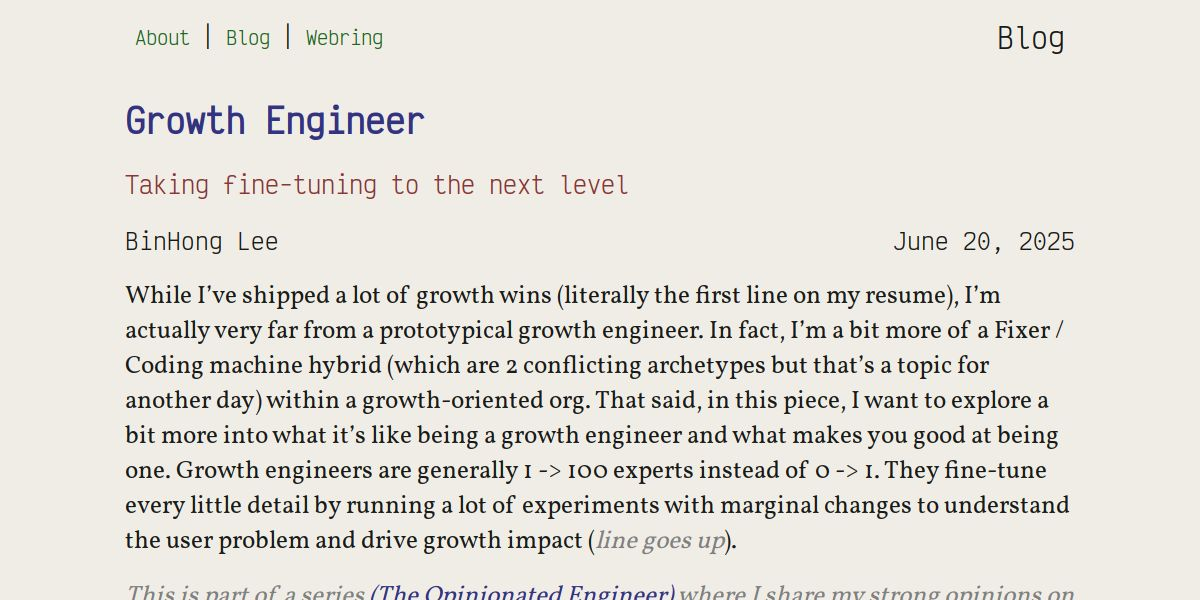
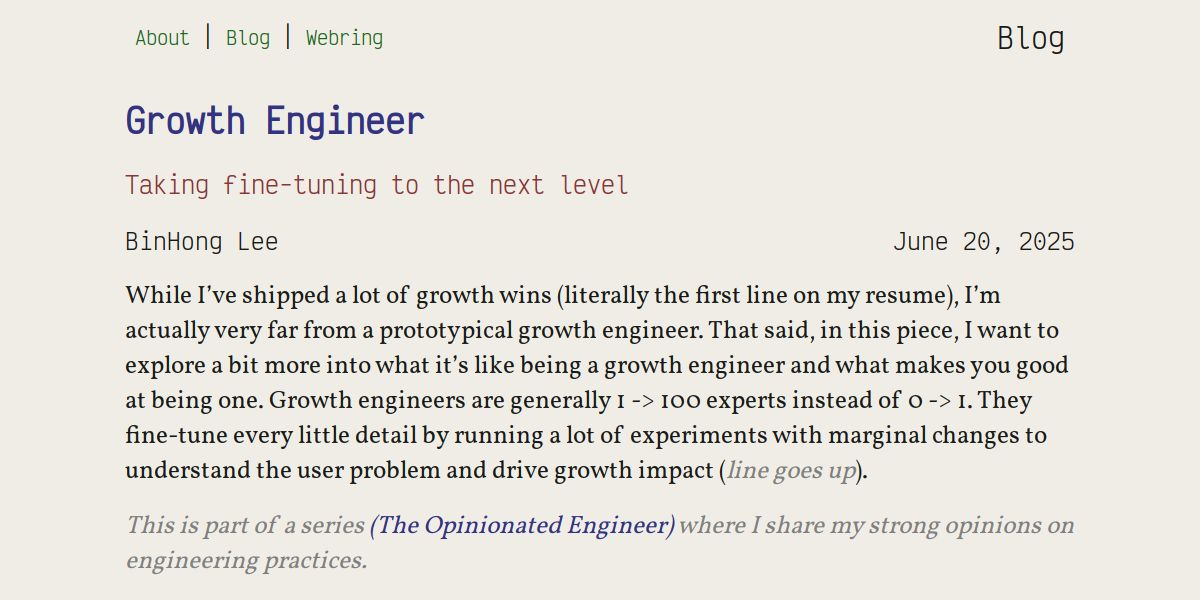
deploy: c6669525b307d3e00186415c4e27ac9a61eeb453

Changed region(s): [[0.0925, 0.51, 0.8942, 1.0]]

diff --git a/2025-07-03-internal-tooling-ideas/index.html b/2025-07-03-internal-tooling-ideas/index.html
@@ -1,0 +1,191 @@
+<!DOCTYPE html>
+<html lang="en">
+  <head>
+    <meta charset="utf-8">
+    <meta name="viewport" content="initial-scale=0.75">
+    
+    <title>Internal Tooling Ideas - BinHong Lee&#39;s Blog</title>
+    
+    <meta name="description" content="For years, I built and maintained the only logged-out accessible dev tool set / platform at Meta. That earned me some reputation (in a certain circle) of being &ldquo;the idea guy on internal tools&rdquo;. Whenever I&rsquo;m asked about how I keep coming up with good ideas for valuable tools to build, my go-to answer has been &ldquo;I build tools when I get annoyed while doing my job&rdquo;. I&rsquo;ll try to expand that into more details below.">
+    <meta property="og:type" content="article">
+    <meta property="og:title" content="Internal Tooling Ideas">
+    <meta property="og:description" content="When and what to build for internal tools?">
+    <meta name="twitter:description" content="When and what to build for internal tools?">
+    <meta name="twitter:title" content="Internal Tooling Ideas"><meta property="article:published_time" 2025-07-03T00:00:00-08:00 />
+    <meta property="article:modified_time" 2025-07-03T00:00:00-08:00 />
+    <meta property="og:image" content="https://binhong.me/blog/preview/internal_tooling_ideas.jpg">
+    <meta property="og:image:height" content="600">
+    <meta property="og:image:width" content="1200">
+    <meta name="twitter:image" content="https://binhong.me/blog/preview/internal_tooling_ideas.jpg">
+    <meta name="twitter:card" content="summary_large_image">
+    <meta name="robots" content="max-image-preview:large">
+    <meta name="image" content="https://binhong.me/blog/preview/internal_tooling_ideas.jpg" />
+    <meta name="twitter:site" content="@">
+    <meta name="author" content="BinHong Lee">
+    <meta property="og:profile:first_name" content="BinHong">
+    <meta property="og:profile:last_name" content="Lee">
+    <meta property="og:username" content="binhong">
+    <meta property="og:locale" content="en_US">
+    <meta property="og:site_name" content="BinHong Lee&#39;s Blog">
+    <meta name="twitter:site" content="@binhonglee">
+    <meta name="fediverse:creator" content="@bh@social.lol">
+    <link href="https://social.lol/@bh" rel="me">
+    
+    <link href="https://binhong.me/blog/style.css?v=1748746674" rel="stylesheet">
+    <link href="https://binhong.me/blog/dark-syntax.css?v=1748746674" rel="stylesheet">
+    <link href="https://binhong.me/blog/light-syntax.css?v=1748746674" rel="stylesheet">
+    <link href="https://binhong.me/fonts/fonts.css?v=1747738744" rel="stylesheet">
+    <link href="https://binhong.me/threads/threads.css" rel="stylesheet">
+    
+    
+    <link rel="icon" href="https://binhong.me/blog/img/profile.png" />
+    
+    <meta name="generator" content="Hugo 0.147.7">
+    
+    </head>
+  <body class="single">
+    <details class="dark_mode_toggle" role="button" open>
+      <summary>
+        <div class="content">
+          <div class="secondary_block">
+            <p class="name-title">Blog</p>
+          </div>
+        </div>
+      </summary>
+    </details>
+    <div class="wrapper">
+      <div class="content dropdown">
+        <button class="dropdown_toggle" aria-haspopup="true" aria-controls="dropdown_menu">+</button>
+        <div class="header_links" id="dropdown_menu" aria-labelledby="dropdown_toggle" role="menu">
+          <a class="link" href="https://binhong.me/" role="menuitem">About</a>
+          <p>|</p>
+          <a class="link" href="https://binhong.me/blog/" role="menuitem">Blog</a>
+          <p>|</p>
+          <div class="webring link" role="menuitem">
+            <a class="webring_toggle">Webring</a>
+            <div class="webring_links">
+              <a class="link" href="https://ringdt.rapid.workers.dev/prev?from=https://binhong.me">Prev</a>
+              <hr />
+              <a class="link" href="https://ringdt.rapid.workers.dev/next?from=https://binhong.me">Next</a>    
+            </div>
+          </div>
+        </div>
+      </div>
+
+
+    <article class="content_body primary_block projects">
+      <main class="article_body">
+        <div class="active">
+          <h1 class="row title">Internal Tooling Ideas</h1>
+          <p class="row subtitle">When and what to build for internal tools?</p>
+          <div class="row author">
+            <p>BinHong Lee</p>
+            <p class="right">July 3, 2025</p>
+          </div>
+          <div class="post_content"><p>For years, I built and maintained the only logged-out accessible dev tool set / platform at Meta. That earned me some reputation (in a certain circle) of being &ldquo;the idea guy on internal tools&rdquo;. Whenever I&rsquo;m asked about how I keep coming up with good ideas for valuable tools to build, my go-to answer has been &ldquo;I build tools when I get annoyed while doing my job&rdquo;. I&rsquo;ll try to expand that into more details below.</p>
+<p><em>This is part of a series <a href="https://claude.ai/blog/2025-05-04-the-opinionated-engineer/">(The Opinionated Engineer)</a> where I share my strong opinions on engineering practices.</em></p>
+<a class="anchor" href="#repetitive-typing">
+    <h2 id="repetitive-typing">
+        <span class="text">Repetitive Typing</span>
+        <span class="tag">#</span>
+    </h2>
+</a>
+<p>The biggest value of having logged-out accessible dev tools is that you no longer have to log in to access dev tools. Login, while generally not too big of a friction for one-off situations, can be very bothersome if you have to type your credentials over and over again (for dev purposes) as you login (update config) → logout (test) → login (update config) → logout (test). If bypassing or removing the typing aspect is not possible, consider if it can be replaced with multiple choice button selection or just a single copy-paste friendly input.</p>
+<a class="anchor" href="#unnecessary-waiting--processing">
+    <h2 id="unnecessary-waiting--processing">
+        <span class="text">Unnecessary Waiting / Processing</span>
+        <span class="tag">#</span>
+    </h2>
+</a>
+<p>There are generally 2 types of waiting problems. The first one is where the wait takes a really long time and can be done asynchronously. Either move the wait into an async manner and integrate a messaging system to notify the author when it&rsquo;s completed, or pre-process them based on known patterns. For example, companies with large native app (iOS / Android) code bases have long build times. You can integrate build tools like <a href="https://bazel.build/remote/caching">Bazel with remote caching</a> so clients don&rsquo;t have to rebuild everything from scratch. Since an engineer will likely want to pull from remote <code>HEAD</code> (or <code>stable</code>) daily, you can have a cron job that pulls and builds daily in the morning before the engineer starts working, thus turning their wait block time into an <em>invisible</em> operation done automagically while they are having their breakfast or morning coffee.</p>
+<a class="anchor" href="#device-config--manual-hard-code">
+    <h2 id="device-config--manual-hard-code">
+        <span class="text">Device Config &gt; Manual Hard-code</span>
+        <span class="tag">#</span>
+    </h2>
+</a>
+<p>In many of these cases, you can probably do manual hard-coding to get the intended behavior. However, doing so increases the risk of accidentally committing such hard-coded changes into prod (if not caught during code review). On top of that, when working on a complex code base, the engineer might not be familiar with the code pointer for where the hard-code needs to go. For instance, if you want to bypass the rate-limit of your feature but the rate-limit logic is owned by a separate team in an unfamiliar code base. As an added bonus, this also allows non-technical members of your team (designers, PMs etc.) to do product audits, dogfooding, and in-depth testing independently without needing dedicated engineering support.</p>
+<a class="anchor" href="#non-deterministic-behaviors-ml-override">
+    <h2 id="non-deterministic-behaviors-ml-override">
+        <span class="text">Non-deterministic Behaviors (ML override)</span>
+        <span class="tag">#</span>
+    </h2>
+</a>
+<p>This is somewhat similar to the manual hardcode situation mentioned above where you might want to override an ML decision to manually test out different decision combinations by the model. ML models (and AI) are relatively non-deterministic by design, but when building / testing a product, you want to make sure that you covered all the different possible scenarios. Having an override to switch between different potential responses allows for better coverage on both manual and automated testing, ensuring that your change behaves as intended.</p>
+<a class="anchor" href="#chore">
+    <h2 id="chore">
+        <span class="text">Chore</span>
+        <span class="tag">#</span>
+    </h2>
+</a>
+<p>This is more about employee satisfaction where working on a chore can be boring or frustrating to them. Having tools to automate such work allows them to explore more interesting / challenging work, thus improving employee satisfaction, even if it doesn&rsquo;t necessarily save a significant amount of time. The best &ldquo;realistic&rdquo; way to measure this would be a rating system where you count the number of employees using it and ask for their feedback (both positive and negative), then compile to show the value it provides.</p>
+<a class="anchor" href="#wrap-up">
+    <h2 id="wrap-up">
+        <span class="text">Wrap up</span>
+        <span class="tag">#</span>
+    </h2>
+</a>
+<p>Building internal tools is about removing friction from your team&rsquo;s daily workflow. The best tools emerge from genuine pain points you experience while doing your job. Start small and focus on the annoyances that happen most frequently. The key is to stay observant of your own frustrations and act on them. Every great internal tool started with someone saying &ldquo;there has to be a better way to do this&rdquo;.</p>
+</div>
+          
+        </div>        <div class="newsletter">
+          <h2>Subscribe to the newsletter today!</h2>
+          <form action="https://binhong.me/newsletter/subscribe" method="post">
+              <input type="email" name="email" placeholder="email@domain.com"/>
+              <input type="hidden" name="secret" id="secret" value="123potato123"/>
+              <noscript>
+                <br />
+                <label>You will need to manually get this secret from <a href="https://binhong.me/newsletter/secret">here</a></label>
+                <input name="secret" id="secret" placeholder="secret"/>
+                <br />
+              </noscript>
+              <button type="submit" name="submit" class="subscribe">Subscribe</button>
+          </form>
+        </div>
+        <div class="bottom_buttons">
+          
+          
+          
+          <a href="/blog">
+            <div class="bottom_button">
+              ← Back to menu
+            </div>
+          </a>
+          
+          
+          
+        </div>
+      </main>
+    </article>
+      <footer class="content">
+        <div class="footer primary_block">
+          <div class="row">
+            <p>Fonts:</p>
+            <a href="http://vollkorn-typeface.com/" rel="noopener noreferrer nofollow" target="_blank" class="name">Vollkorn</a>,
+            <a href="https://rubjo.github.io/victor-mono/" rel="noopener noreferrer nofollow" target="_blank" class="name">Victor Mono</a>
+          </div>
+          <div class="row">
+            <p>
+              <a href="https://github.com/binhonglee/blog/blob/main/content/2025-07-03-internal-tooling-ideas.md?plain=1" rel="noopener noreferrer nofollow" target="_blank">Source</a>
+              |
+              <a rel="alternate" type="application/rss+xml" href="https://binhong.me/blog/index.xml" title="BinHong Lee&#39;s Blog">RSS</a>
+            </p>
+          </div>
+          <div class="row">
+            <p>
+              &copy; 2025 <a href="https://binhong.me">BinHong Lee</a>
+            </p>
+          </div>
+          <div class="row">
+            <p>
+              Powered by <a href="https://gohugo.io/" rel="noopener noreferrer nofollow" target="_blank">Hugo</a>
+            </p>
+          </div>
+        </div>
+      </footer>
+    </div>
+    <script type="text/javascript" src="https://binhong.me/darkMode.js"></script>
+    <script type="text/javascript" src="https://binhong.me/blog/secret.js"></script>
+  </body>
+</html>
+

diff --git a/2025-06-20-growth-engineer/index.html b/2025-06-20-growth-engineer/index.html
@@ -6,7 +6,7 @@
     
     <title>Growth Engineer - BinHong Lee&#39;s Blog</title>
     
-    <meta name="description" content="While I&rsquo;ve shipped a lot of growth wins (literally the first line on my resume), I&rsquo;m actually very far from a prototypical growth engineer. In fact, I&rsquo;m a bit more of a Fixer / Coding machine hybrid (which are 2 conflicting archetypes but that&rsquo;s a topic for another day) within a growth-oriented org. That said, in this piece, I want to explore a bit more into what it&rsquo;s like being a growth engineer and what makes you good at being one. Growth engineers are generally 1 -&gt; 100 experts instead of 0 -&gt; 1. They fine-tune every little detail by running a lot of experiments with marginal changes to understand the user problem and drive growth impact (line goes up).">
+    <meta name="description" content="While I&rsquo;ve shipped a lot of growth wins (literally the first line on my resume), I&rsquo;m actually very far from a prototypical growth engineer. That said, in this piece, I want to explore a bit more into what it&rsquo;s like being a growth engineer and what makes you good at being one. Growth engineers are generally 1 -&gt; 100 experts instead of 0 -&gt; 1. They fine-tune every little detail by running a lot of experiments with marginal changes to understand the user problem and drive growth impact (line goes up).">
     <meta property="og:type" content="article">
     <meta property="og:title" content="Growth Engineer">
     <meta property="og:description" content="Taking fine-tuning to the next level">
@@ -82,7 +82,7 @@
             <p>BinHong Lee</p>
             <p class="right">June 20, 2025</p>
           </div>
-          <div class="post_content"><p>While I&rsquo;ve shipped a lot of growth wins (literally the first line on my resume), I&rsquo;m actually very far from a prototypical growth engineer. In fact, I&rsquo;m a bit more of a Fixer / Coding machine hybrid (which are 2 conflicting archetypes but that&rsquo;s a topic for another day) within a growth-oriented org. That said, in this piece, I want to explore a bit more into what it&rsquo;s like being a growth engineer and what makes you good at being one. Growth engineers are generally 1 -&gt; 100 experts instead of 0 -&gt; 1. They fine-tune every little detail by running a lot of experiments with marginal changes to understand the user problem and drive growth impact (<em>line goes up</em>).</p>
+          <div class="post_content"><p>While I&rsquo;ve shipped a lot of growth wins (literally the first line on my resume), I&rsquo;m actually very far from a prototypical growth engineer. That said, in this piece, I want to explore a bit more into what it&rsquo;s like being a growth engineer and what makes you good at being one. Growth engineers are generally 1 -&gt; 100 experts instead of 0 -&gt; 1. They fine-tune every little detail by running a lot of experiments with marginal changes to understand the user problem and drive growth impact (<em>line goes up</em>).</p>
 <p><em>This is part of a series <a href="/blog/2025-05-04-the-opinionated-engineer/">(The Opinionated Engineer)</a> where I share my strong opinions on engineering practices.</em></p>
 <a class="anchor" href="#ab-test-everything">
     <h2 id="ab-test-everything">

diff --git a/2025-05-04-the-opinionated-engineer/index.html b/2025-05-04-the-opinionated-engineer/index.html
@@ -99,21 +99,33 @@ I have not fully planned out the entire series but here are a few topics I have 
 <p>I have not fully planned out the entire series but here are a few topics I have in mind (or have released) so far&hellip;</p>
 <ol>
 <li><a href="/blog/2025-05-04-push-fearlessly-with-automated-testing/">Push Fearlessly with Automated Testing</a></li>
+<li>Culture
+<ol>
 <li><a href="/blog/2025-05-15-art-of-posting/">The Art of Posting</a></li>
 <li><a href="/blog/2025-05-23-code-review-culture/">Code Review Culture</a></li>
-<li><a href="/blog/2025-05-30-no-blame-sev-culture/">No Blame SEV Culture</a></li>
-<li>Growth
+</ol>
+</li>
+<li>Incident Management
+<ol>
+<li><a href="/blog/2025-05-30-no-blame-sev-culture/">No Blame SEV (Incident) Culture</a></li>
+<li>Major Incident Runbook</li>
+<li>Firefighting Heroes</li>
+</ol>
+</li>
+<li>Product Growth
 <ol>
 <li>A/B Testing</li>
 <li>Product Growth Opportunities</li>
 <li>Growth Engineer</li>
-<li>Growth Experiment Review Process</li>
+<li>Experiment Review Process</li>
 </ol>
 </li>
+<li>Internal Tools
+<ol>
+<li>Internal Tooling Ideas</li>
 <li>Understanding the Value of Dev Tools</li>
-<li>Firefighting Heroes</li>
-<li>The Intangibles</li>
-<li>Biased Towards Overcommunicate</li>
+</ol>
+</li>
 </ol>
 <a class="anchor" href="#where-is-this-coming-from">
     <h2 id="where-is-this-coming-from">

diff --git a/internal_tooling_ideas/index.html b/internal_tooling_ideas/index.html
@@ -1,0 +1,10 @@
+<!DOCTYPE html>
+<html lang="en-us">
+  <head>
+    <title>https://binhong.me/blog/2025-07-03-internal-tooling-ideas/</title>
+    <link rel="canonical" href="https://binhong.me/blog/2025-07-03-internal-tooling-ideas/">
+    <meta name="robots" content="noindex">
+    <meta charset="utf-8">
+    <meta http-equiv="refresh" content="0; url=https://binhong.me/blog/2025-07-03-internal-tooling-ideas/">
+  </head>
+</html>
